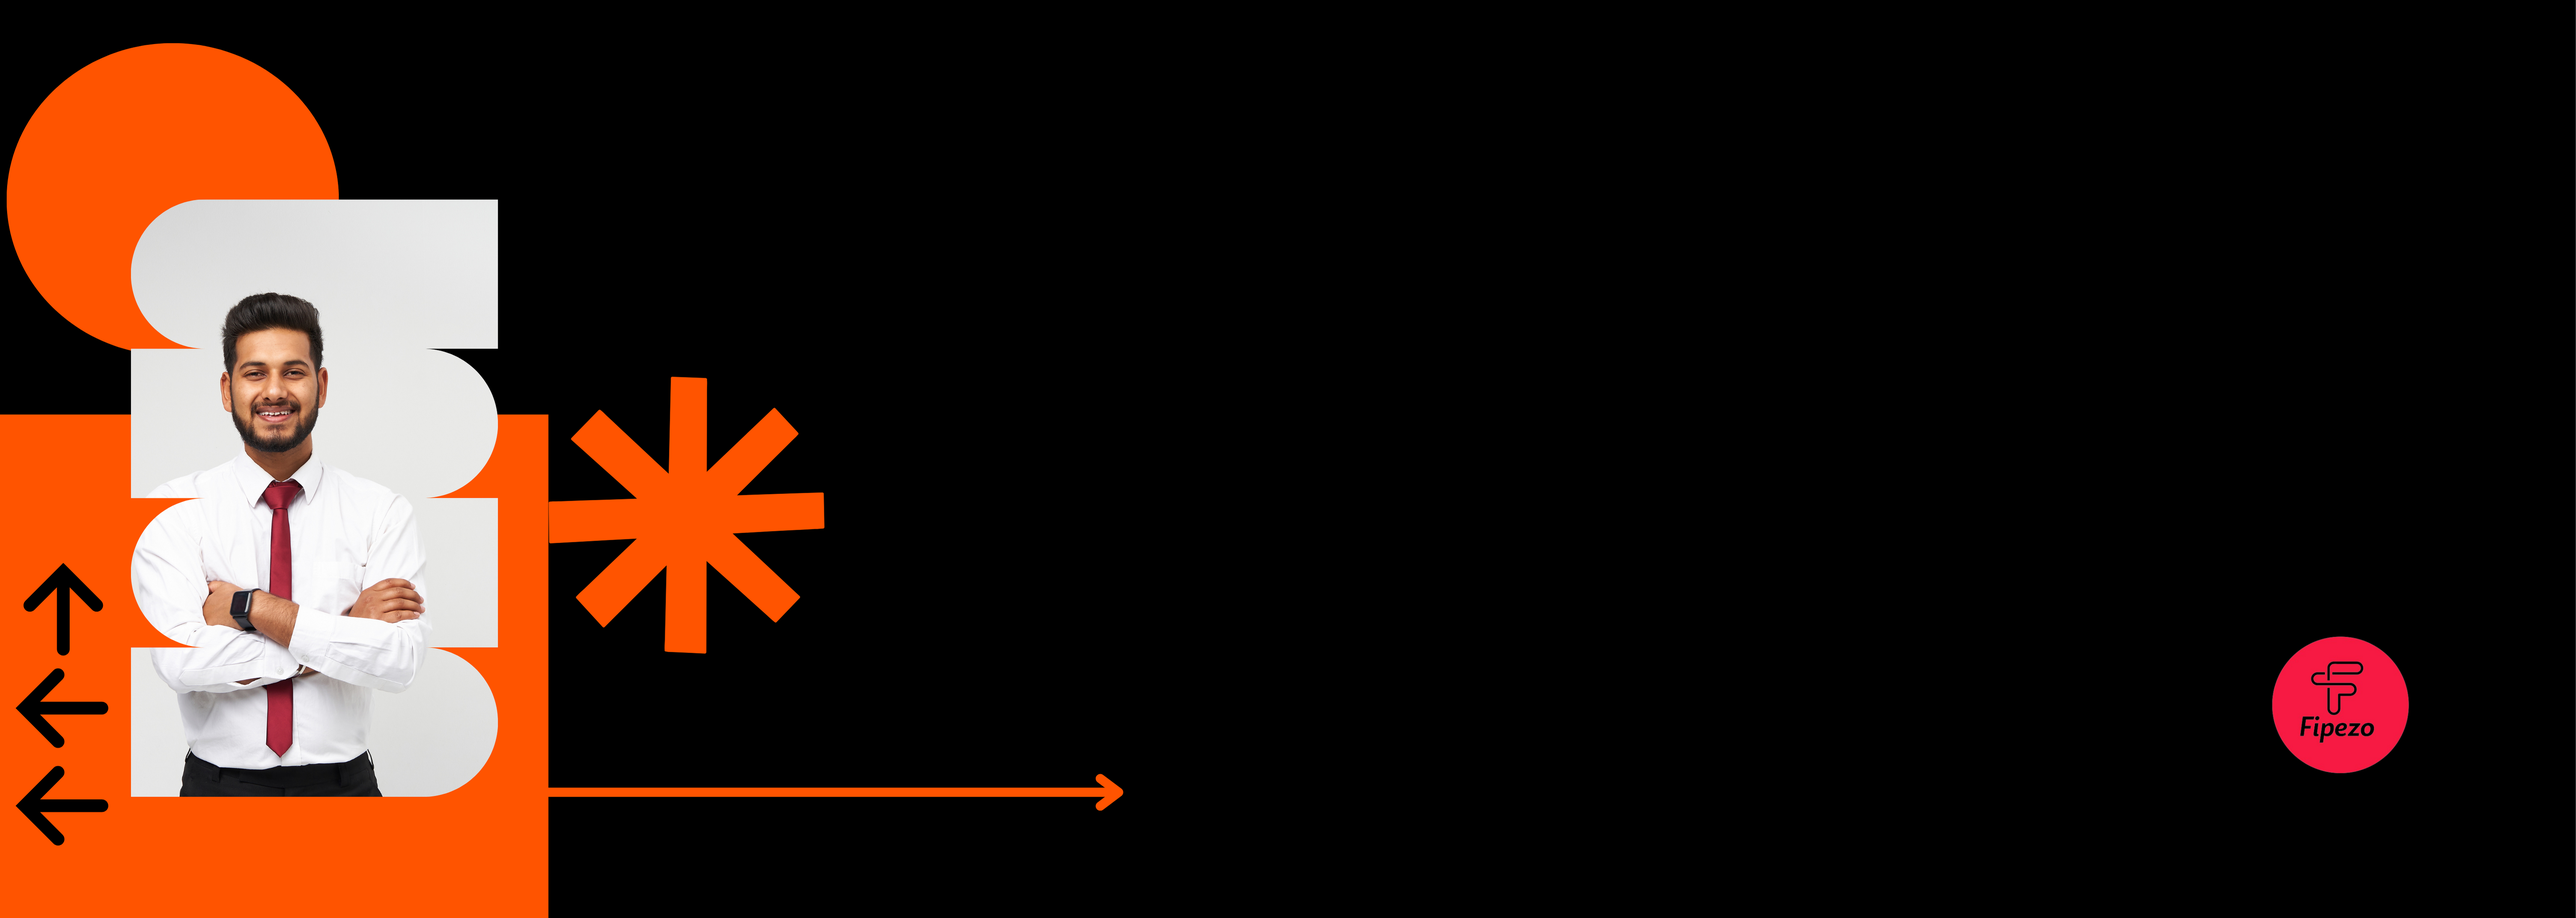
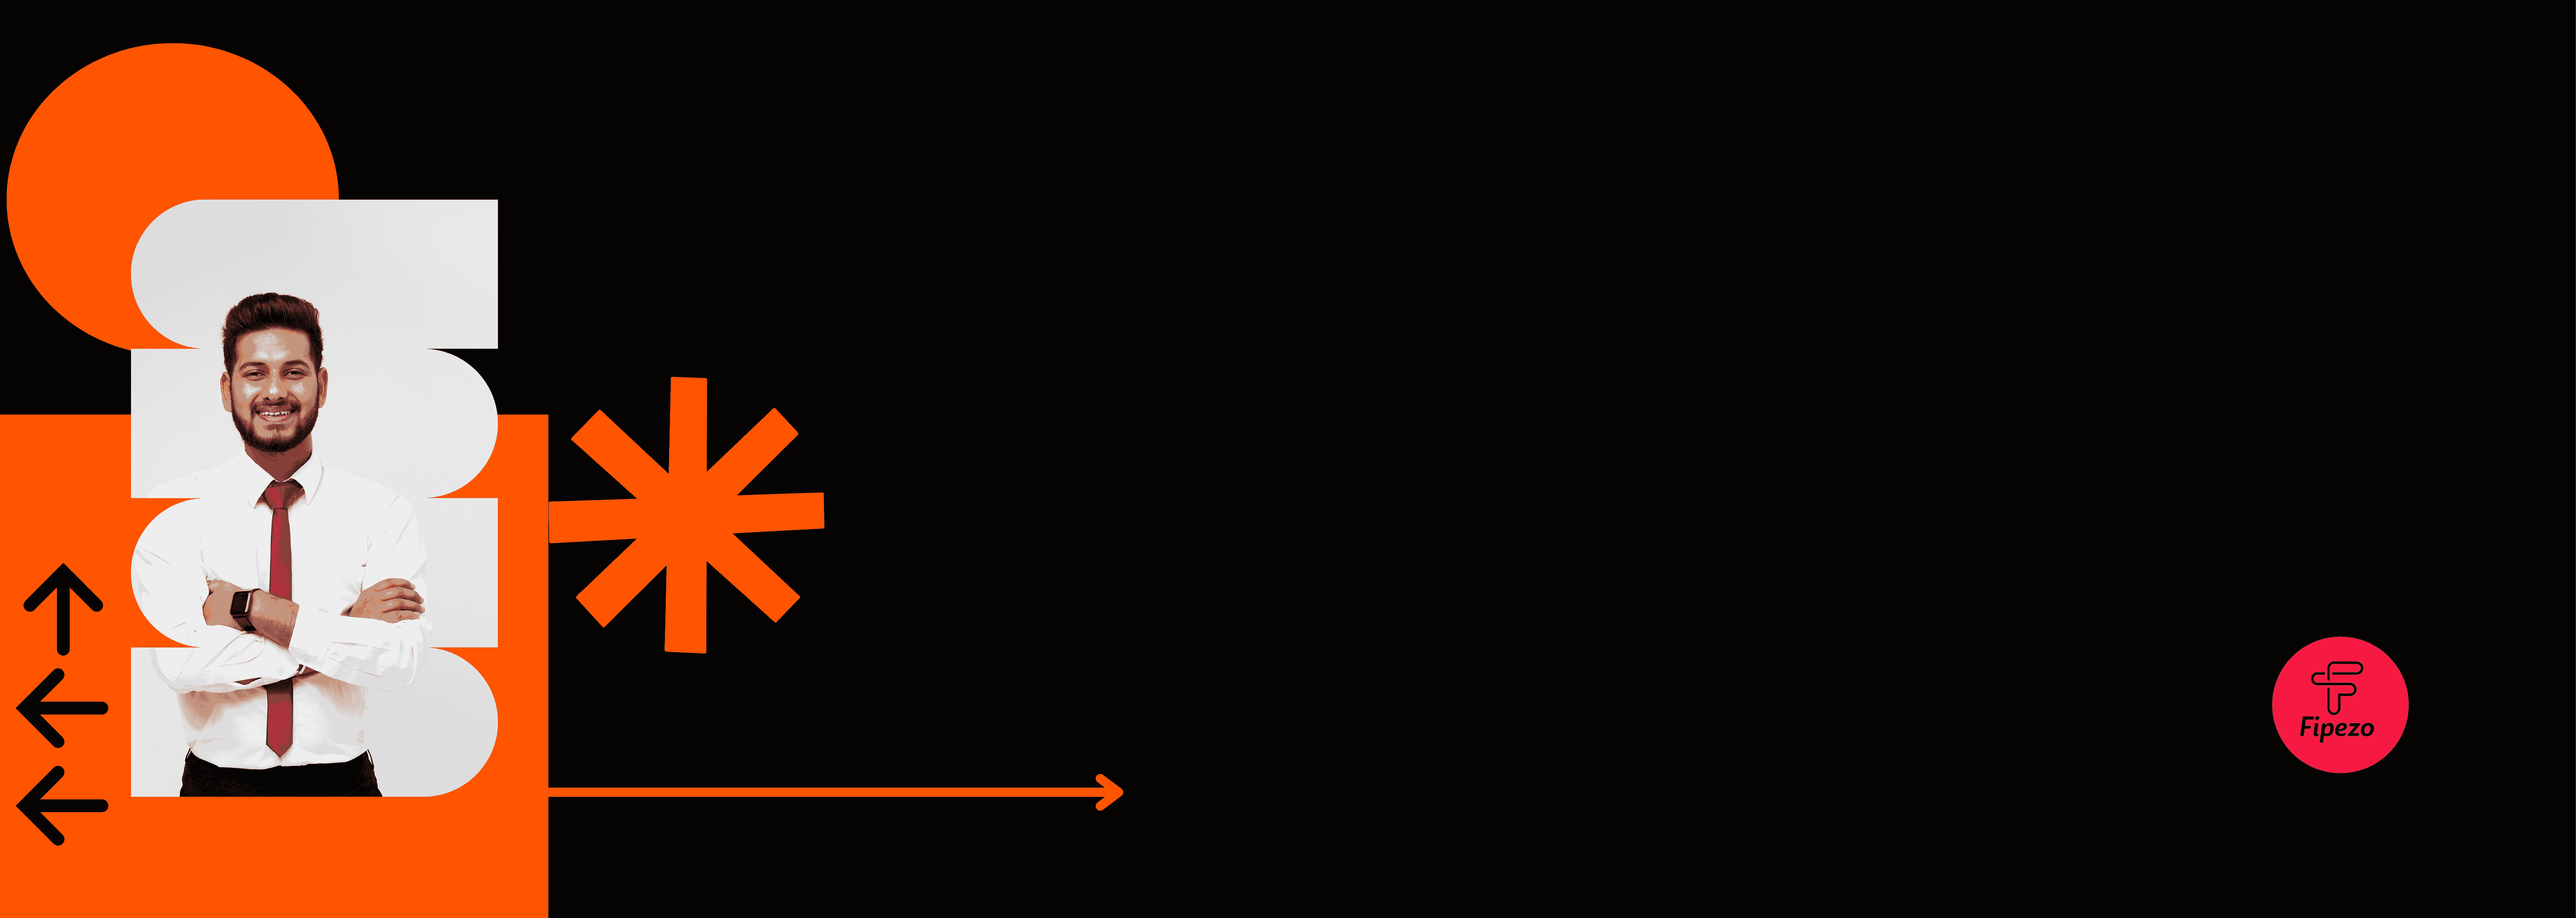
public folder optimize

Changed region(s): [[0.0623, 0.3109, 0.1868, 0.8706]]

diff --git a/client/components/Navbar.jsx b/client/components/Navbar.jsx
@@ -3,7 +3,7 @@ import Link from "next/link";
 import { RiMenu3Fill } from "react-icons/ri";
 import { RxCross2 } from "react-icons/rx";
 import { BiChevronDown } from "react-icons/bi";
-import { useContext, useEffect, useMemo, useRef, useState } from "react";
+import { useContext, useEffect, useRef, useState } from "react";
 import { useRouter } from "next/router";
 import Image from "next/image";
 import { FaBell } from "react-icons/fa";

diff --git a/client/pages/_document.js b/client/pages/_document.js
@@ -14,7 +14,7 @@ export default function Document() {
           href="https://fonts.googleapis.com/css2?family=Inter:wght@100;200;300;400;500;600;700;800;900&family=Kanit:ital@1&family=Lobster&display=swap"
           rel="stylesheet"
         />
-        <link rel="preload" as="image" href="/img19S.webp" />
+        <link rel="preload" as="image" href="/headerIMGBg.jpeg" />
       </Head>
       <body>
         <noscript>

diff --git a/client/styles/Header.module.css b/client/styles/Header.module.css
@@ -1,5 +1,4 @@
 .header {
-  /* background-image: url(/img19S.webp); */
   background-image: url(/headerIMGBg.jpeg);
   height: 75vh;
   width: 100vw;
